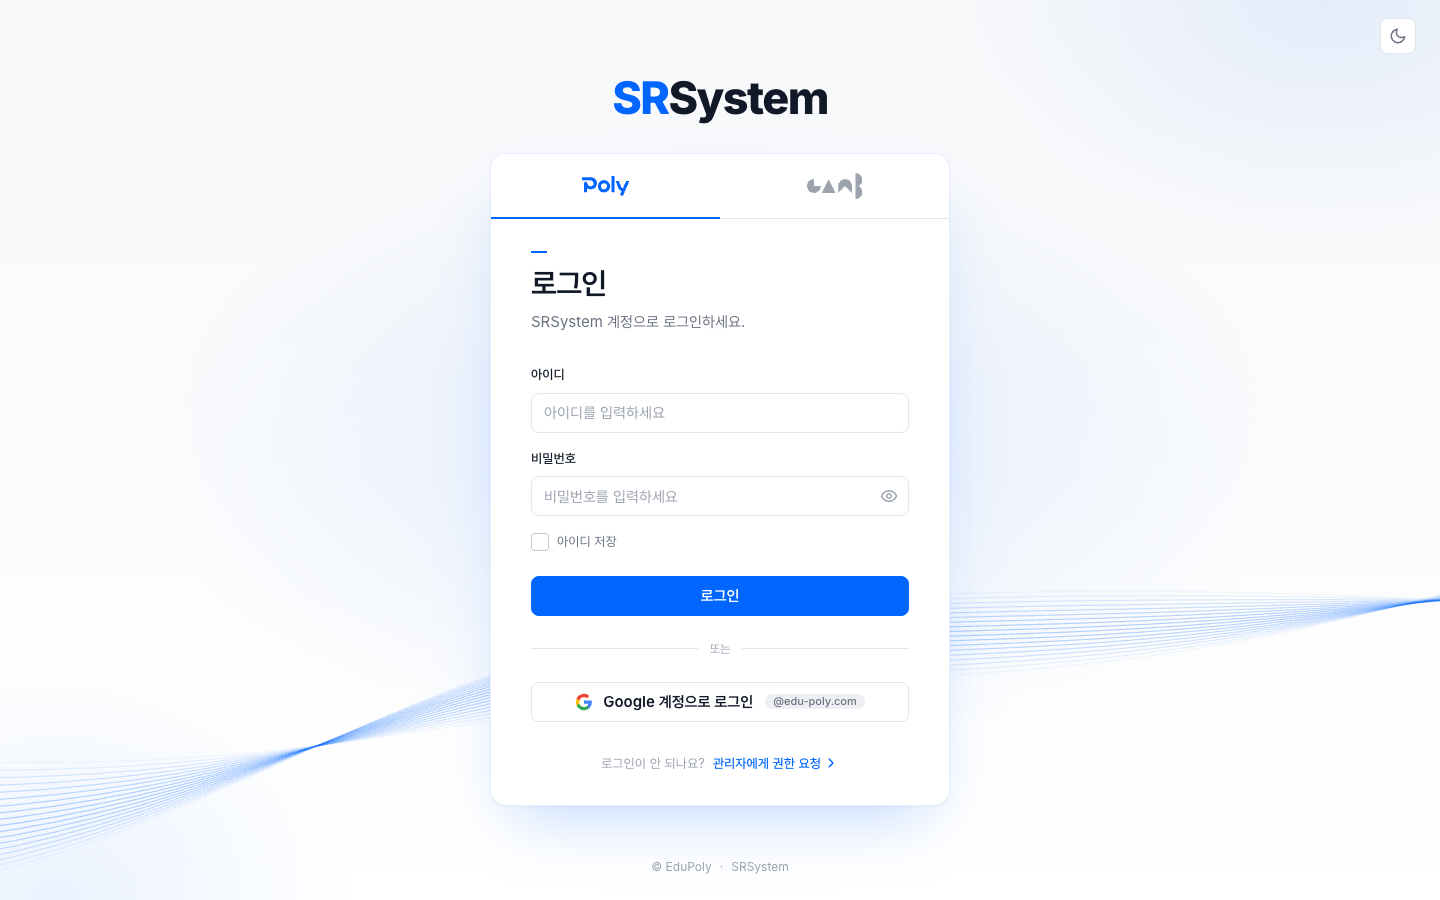
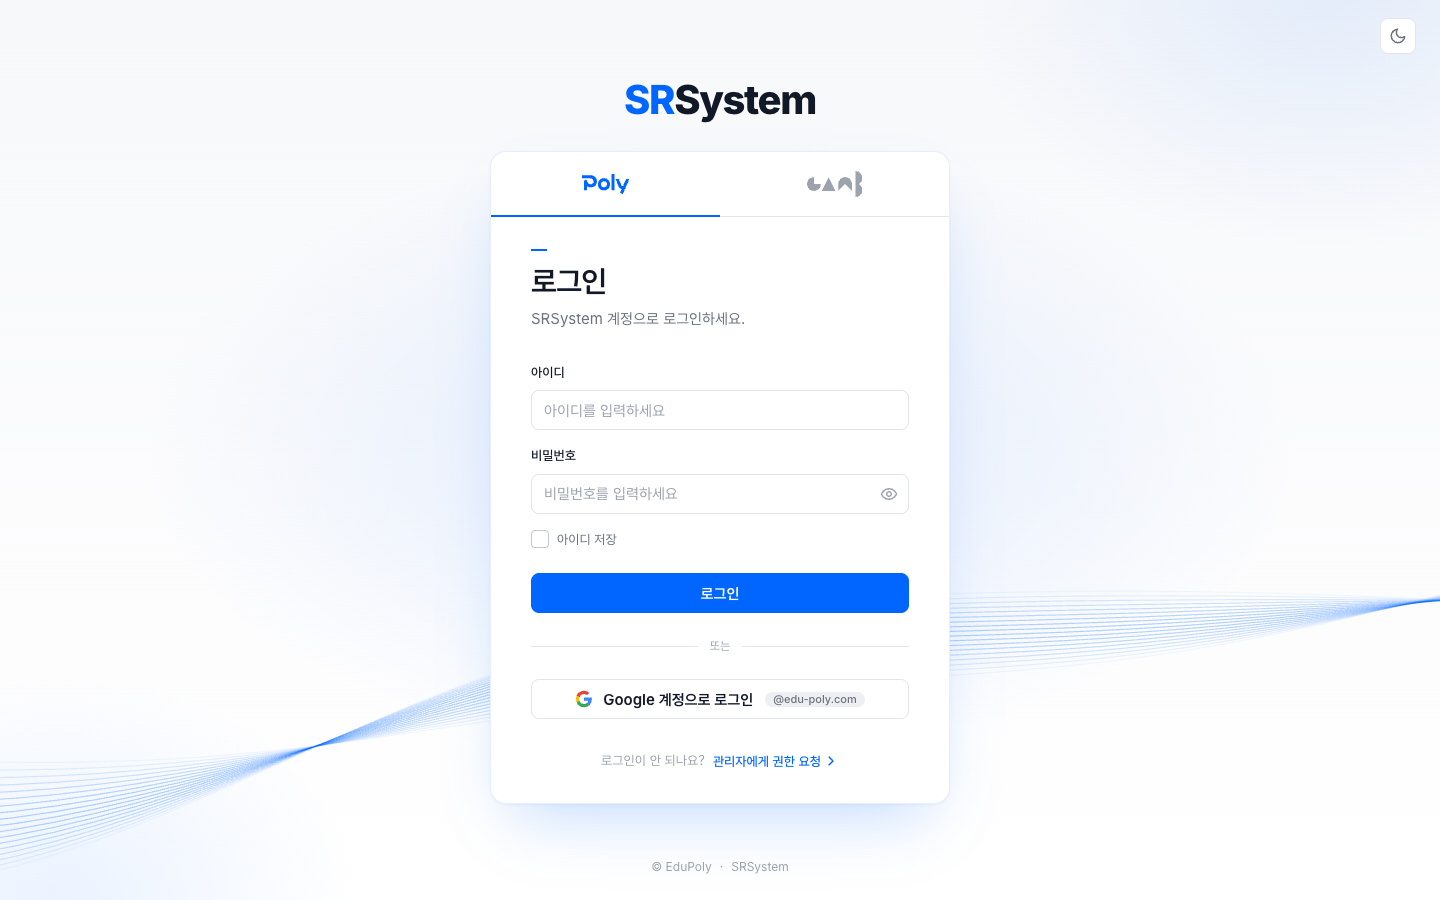
SRSystem 워드마크 조금 작게 (45→40px, 모바일 36→32px)

diff --git a/srsystem/login-b.html b/srsystem/login-b.html
@@ -45,7 +45,7 @@
       row-gap: var(--space-8);
       padding: var(--space-16) var(--space-6) var(--space-10);
     }
-    .b-mark .product-name { font-size: 45px; font-weight: 800; letter-spacing: -0.035em; line-height: 1; }
+    .b-mark .product-name { font-size: 40px; font-weight: 800; letter-spacing: -0.035em; line-height: 1; }
     .b-mark .product-name b { font-weight: inherit; color: var(--color-primary); transition: color .45s ease; }
     .b-card {
       --b-card-line: var(--color-primary-a10);
@@ -78,7 +78,7 @@
     @media (max-width: 640px) {
       .b-top { height: 64px; padding: 0 var(--space-3); }
       .b-main { padding: var(--space-5) var(--space-4) var(--space-8); align-content: start; row-gap: var(--space-5); grid-template-columns: minmax(0, 1fr); }
-      .b-mark .product-name { font-size: 36px; }
+      .b-mark .product-name { font-size: 32px; }
       .b-card-body { padding: var(--space-6); }
     }
   </style>
